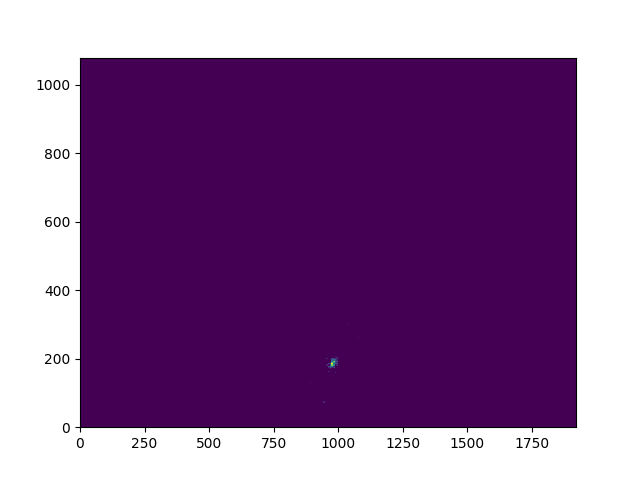
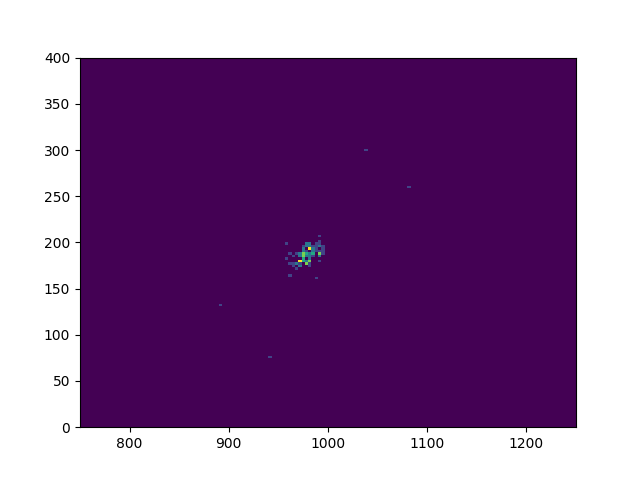
invert y axis in plotting

diff --git a/click_distribution/analyse_clicks.py b/click_distribution/analyse_clicks.py
@@ -1,9 +1,10 @@
 import pickle
 import numpy as np
+from matplotlib import pyplot as plt
 import altair as alt
 import altair_viewer
 import pandas as pd
-
+import matplotlib.pyplot as plt
 
 file = open("recorded_clicks.obj", 'rb')
 clicks = pickle.load(file)
@@ -31,8 +32,10 @@ xs = [x[0] for x in clicks]
 ys = [y[1] for y in clicks]
 
 # set up data
-raw_x_df = pd.DataFrame({"raw_x": [x for x in xs if x > 600]})
-raw_y_df = pd.DataFrame({"raw_y": [x for x in ys if x > 700]})
+# raw_x_df = pd.DataFrame({"raw_x": [x for x in xs if x > 600]})
+# raw_y_df = pd.DataFrame({"raw_y": [x for x in ys if x > 700]})
+raw_x_df = pd.DataFrame({"raw_x": xs})
+raw_y_df = pd.DataFrame({"raw_y": ys})
 
 delta_x = [((xs[i] - center[0])) for i in range(len(xs))]
 delta_x = [x for x in delta_x if x < 100 and x > -100]
@@ -43,11 +46,11 @@ delta_y = [x for x in delta_y if x < 100 and x > -100]
 delta_y_df = pd.DataFrame({"delta_y": delta_y})
 
 x_std = np.std(delta_x)
-sim_delta_x = np.random.normal(np.mean(delta_x), x_std, 100)
+sim_delta_x = np.random.normal(np.mean(delta_x), x_std, 200)
 sim_delta_x_df = pd.DataFrame({"sim_delta_x": sim_delta_x})
 
 y_std = np.std(delta_y)
-sim_delta_y = np.random.normal(np.mean(delta_y), y_std, 100)
+sim_delta_y = np.random.normal(np.mean(delta_y), y_std, 200)
 sim_delta_y_df = pd.DataFrame({"sim_delta_y": sim_delta_y})
 
 # set up x charts
@@ -67,7 +70,8 @@ x_charts = alt.vconcat(raw_x_chart, delta_x_chart, sim_delta_x_chart)
 
 # set up y charts
 raw_y_chart = alt.Chart(raw_y_df).mark_bar().encode(
-    alt.X("raw_y:Q", bin=True, scale=alt.Scale(domain=[850, 940])),
+    alt.X("raw_y:Q", bin=True, scale=alt.Scale(
+        domain=[140, 230])),
     y="count()"
 )
 delta_y_chart = alt.Chart(delta_y_df).mark_bar().encode(

diff --git a/click_distribution/click_heatmap.py b/click_distribution/click_heatmap.py
@@ -10,7 +10,7 @@ clicks = [[pt[0], 1080-pt[1]]
           for pt in clicks if pt[0] > 700]  # remove one obvious outlier
 
 plt.hist2d([x[0] for x in clicks], [x[1] for x in clicks],
-           bins=300,
-           range=[[0, 1920], [0, 1080]])
+           bins=150,
+           range=[[750, 1250], [0, 400]])
 
 plt.savefig("heatmap.png")

diff --git a/click_distribution/README.md b/click_distribution/README.md
@@ -11,12 +11,12 @@ Run `click_heatmap.py` to create and save a heat map of my clicks for one agilit
 Run `analyise_clicks.py` to calculate distribution parameters and display the following chart
 
 ## Distribution of clicks
-![](image.png)
+![](click_dist.png)
 
 
 I have a bias of clicking high and to the left, so this will be included the interaction component
 
 ```
 x mean: -9.981818181818182, x std: 8.404524558703558
-y mean: 6.572727272727272, y std: 7.741809855241263
+y mean: -6.572727272727272, y std: 7.741809855241263
 ```
